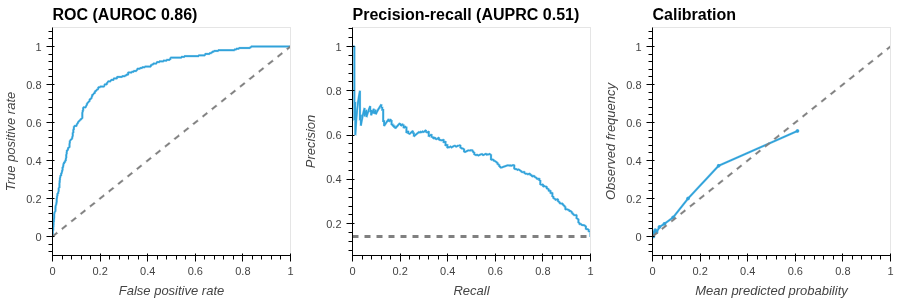
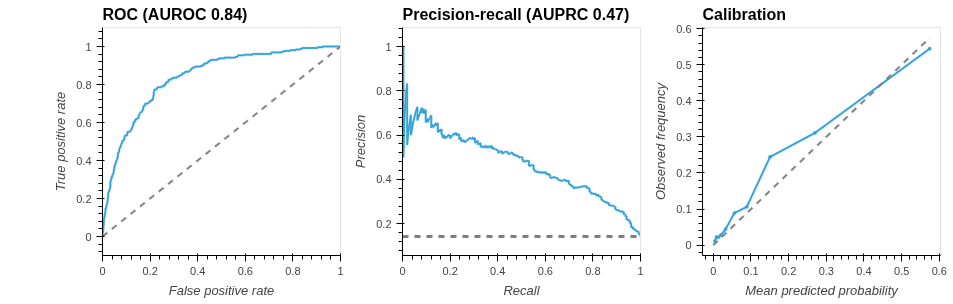
Fit the calibration axes of prediction_performance to the predictions (#1201)
The calibration panel always spanned 0 to 1: its dashed line of perfect
calibration ran from (0, 0) to (1, 1), and since it and the random
classifier line of the ROC panel both had the default dimensions x and y,
the layout shared their axes.
For rare outcomes such as the hourly sepsis label of PhysioNet 2019,
whose predicted probabilities stay below 0.1, the calibration curve was
squeezed into the lower left corner.

The dashed line now ends at the largest predicted probability or observed
frequency, and both guide lines carry the dimensions of their panel, so
the calibration axes follow the curve while the ROC axes stay at 0 to 1.
The docstring preview is regenerated on PhysioNet 2012.

The holoviews extension is not reloaded on every call: load_hv_extensions
only loads a backend that is missing, once per session, so it is left as
is.

diff --git a/ehrapy/plot/_prediction.py b/ehrapy/plot/_prediction.py
@@ -38,6 +38,7 @@ def prediction_performance(
     Multiclass and multilabel tasks get a curve for every class or label against all others, labeled with its AUROC or AUPRC.
     The calibration curve compares the mean predicted probability with the observed frequency in `n_bins` bins with equally many observations.
     Dashed lines show a random model for the ROC curve, the frequency of the label for the precision-recall curve of binary tasks and perfect calibration for the calibration curve.
+    The axes of the calibration curve end at its largest probability or frequency, so that the curves of rare outcomes are not squeezed into a corner.
 
     Args:
         edata: Central data object.
@@ -100,8 +101,10 @@ def prediction_performance(
     if task.kind == "binary":
         titles[:2] = f"ROC (AUROC {auroc:.2f})", f"Precision-recall (AUPRC {auprc:.2f})"
         pr.append(hv.HLine(y.mean()).opts(**_GUIDE))
-    diagonal = hv.Curve([(0, 0), (1, 1)]).opts(**_GUIDE)
-    panels = (hv.Overlay([*roc, diagonal]), hv.Overlay(pr), hv.Overlay([*calibration, diagonal]))
+    upper = max((element.range(dim)[1] for element in calibration for dim in (0, 1)), default=1)
+    random = hv.Curve([(0, 0), (1, 1)], "False positive rate", "True positive rate").opts(**_GUIDE)
+    perfect = hv.Curve([(0, 0), (upper, upper)], "Mean predicted probability", "Observed frequency").opts(**_GUIDE)
+    panels = (hv.Overlay([*roc, random]), hv.Overlay(pr), hv.Overlay([*calibration, perfect]).opts(padding=0.05))
     return hv.Layout(
         [panel.opts(title=title, width=width, height=height) for panel, title in zip(panels, titles, strict=True)]
     ).cols(3)

diff --git a/tests/plot/test_prediction.py b/tests/plot/test_prediction.py
@@ -34,6 +34,18 @@ def test_prediction_performance(edata):
         ep.pl.prediction_performance(edata, ep.ml.Task("y", kind="regression"), split=None)
 
 
+def test_prediction_performance_calibration_range_follows_probabilities(edata):
+    edata.obs["prediction"] /= 10
+    edata.obs["y"] = np.random.default_rng(1).binomial(1, edata.obs["prediction"])
+
+    plot = ep.pl.prediction_performance(edata, ep.ml.Task("y"), split=None)
+
+    roc, _, calibration = (figure for figure, *_ in hv.render(plot, backend="bokeh").children)
+    assert calibration.x_range.end < 0.5
+    assert calibration.y_range.end < 0.5
+    assert roc.x_range.end == 1
+
+
 def test_prediction_performance_per_class(edata):
     roc, pr, calibration = ep.pl.prediction_performance(
         edata, ep.ml.Task("level", kind="multiclass"), key="levels", split=None

diff --git a/docs/changelog.md b/docs/changelog.md
@@ -104,6 +104,7 @@ This project adheres to [Semantic Versioning](https://semver.org/spec/v2.0.0.htm
 * {func}`ep.pl.cox_ph_forestplot <ehrapy.plot.cox_ph_forestplot>` draws the confidence intervals as horizontal error bars, puts the reference line at a coefficient of 0, which is a hazard ratio of 1, instead of 1, and gives the header its own row instead of overlapping the top coefficient ([#1191](https://github.com/theislab/ehrapy/pull/1191)) @Zethson
 * The survival models that derive durations from a longitudinal `event_col` measure them in the unit of `edata.tem["time_value"]`, such as hours on PhysioNet 2012 and 2019, instead of in seconds of `edata.tem["interval_start_offset"]`, which they keep using when `tem` has no `time_value` ([#1190](https://github.com/theislab/ehrapy/pull/1190)) @Zethson
 * The examples of {func}`ep.tl.kaplan_meier <ehrapy.tools.kaplan_meier>`, {func}`ep.tl.nelson_aalen <ehrapy.tools.nelson_aalen>`, {func}`ep.tl.weibull <ehrapy.tools.weibull>`, {func}`ep.tl.weibull_aft <ehrapy.tools.weibull_aft>`, {func}`ep.tl.log_logistic_aft <ehrapy.tools.log_logistic_aft>`, {func}`ep.tl.cox_ph <ehrapy.tools.cox_ph>` and {func}`ep.pl.kaplan_meier <ehrapy.plot.kaplan_meier>` no longer flip `censor_flg` of MIMIC-II, which `ed.dt.mimic_2` already codes as 1 for death, so that they model the time to death instead of the time to censoring ([#1189](https://github.com/theislab/ehrapy/pull/1189)) @Zethson
+* The calibration curve of {func}`ep.pl.prediction_performance <ehrapy.plot.prediction_performance>` ends its axes at the largest predicted probability or observed frequency instead of at 1, so that rare outcomes such as the hourly sepsis label of PhysioNet 2019 no longer squeeze it into a corner ([#1201](https://github.com/theislab/ehrapy/pull/1201)) @Zethson
 * The logistic propensity model of the causal estimators and diagnostics standardizes the covariates before fitting, so that estimates no longer depend on the units of the covariates and the fit converges on unscaled data such as the 21 baseline covariates of MIMIC-II ([#1186](https://github.com/theislab/ehrapy/pull/1186)) @Zethson
 * {func}`ep.pp.neighbors <ehrapy.preprocessing.neighbors>` with `metric="dtw"`, `"soft_dtw"` or `"gak"` stores the name of the metric in `uns["neighbors"]["params"]` instead of the internal distance function together with the whole time series array, so that {func}`ed.io.write_h5ed <ehrdata.io.write_h5ed>` writes the result ([#1188](https://github.com/theislab/ehrapy/pull/1188)) @Zethson
 * {func}`ep.pl.violin <ehrapy.plot.violin>` no longer draws a legend that repeats the x axis when `groupby` has integer categories such as a 0/1 treatment flag ([#1182](https://github.com/theislab/ehrapy/pull/1182)) @Zethson
